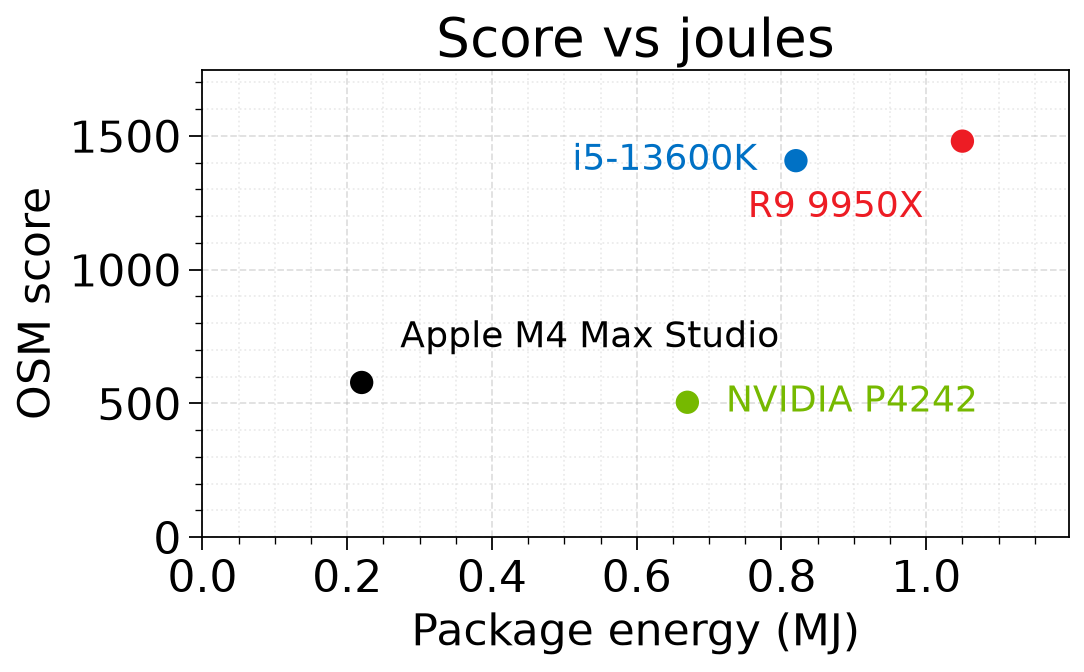
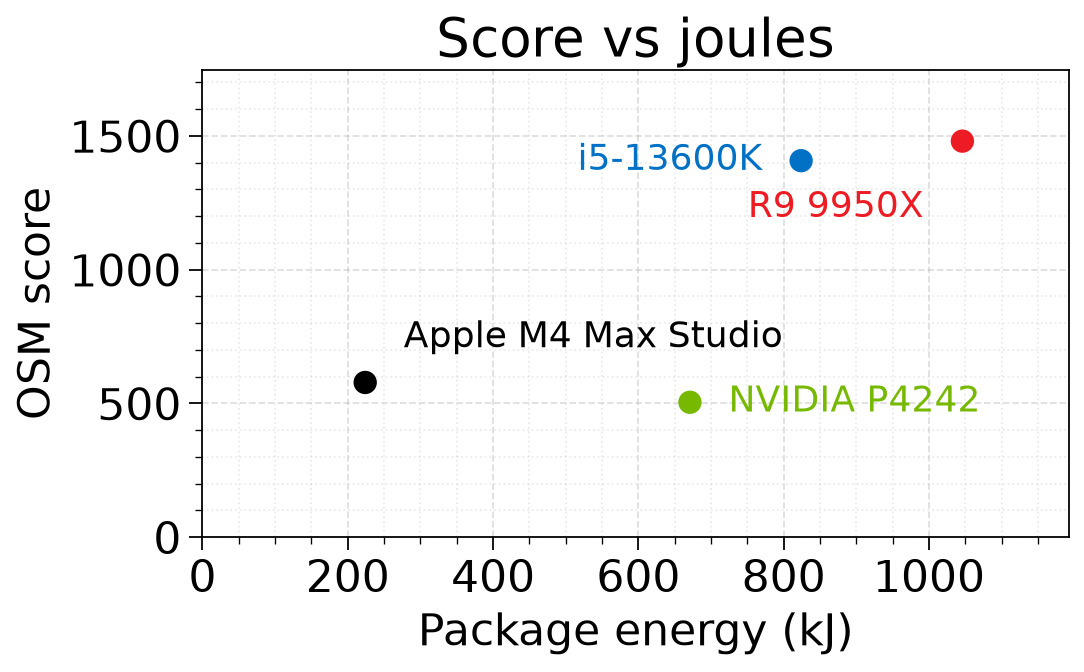
Show package energy in kJ and add a relations-versus-joules scatter.
Kilojoules put score and energy on a similar numeric scale. The PG19 relation section reuses full-run kJ against rel/s as a zoom-in, not a phase-isolated integral.

diff --git a/reports/osm-relation-power.py b/reports/osm-relation-power.py
@@ -5,6 +5,7 @@ Graph OSM relation power efficiency from a release's osm-power snapshot (default
 Generates:
   - Horizontal bar chart of relations per average watt
   - Scatter plot of relation count vs average watts
+  - Scatter of relations/second vs full-run package energy (kJ), when `kj` is on the snapshot table
 
 Usage:
   python3 reports/osm-relation-power.py
@@ -20,7 +21,7 @@ from pathlib import Path
 
 import matplotlib.pyplot as plt
 import pandas as pd
-from matplotlib.ticker import ScalarFormatter
+from matplotlib.ticker import AutoMinorLocator, ScalarFormatter
 
 sys.path.insert(0, str(Path(__file__).resolve().parent))
 from snapshot_table import load_snapshot_table
@@ -54,6 +55,14 @@ PG19_RELATION_SCATTER_LABEL_OVERRIDES: dict[str, LabelOffset] = {
     "R9 9950X": LabelOffset(-_marker_x_gap(), 0, ha="right", va="center"),
 }
 
+# Same four points as the leaderboard score-vs-kJ chart; i5 and 9950X share the top.
+RELATION_JOULES_LABEL_OVERRIDES: dict[str, LabelOffset] = {
+    "i5-13600K": LabelOffset(-_marker_x_gap(), 0, ha="right", va="center"),
+    "R9 9950X": LabelOffset(-_marker_x_gap(), -22, ha="right", va="top"),
+    "Apple M4 Max Studio": LabelOffset(_marker_x_gap(), 12, ha="left", va="bottom"),
+    "NVIDIA P4242": LabelOffset(_marker_x_gap(), 0, ha="left", va="center"),
+}
+
 
 def row_color(row: pd.Series) -> str:
     return str(row.get("cpu_c", "")).strip() or DEFAULT_POINT_COLOR
@@ -65,11 +74,13 @@ def parse_args() -> argparse.Namespace:
     parser.add_argument("--snapshot", type=Path)
     parser.add_argument("--output", type=Path)
     parser.add_argument("--scatter-output", type=Path)
+    parser.add_argument("--joules-output", type=Path)
     parser.add_argument("--show", action="store_true", help="Display interactively")
     args = parser.parse_args()
     args.snapshot = args.snapshot or snapshot_path(args.pg, "osm-power")
     args.output = args.output or image_path(args.pg, "osm-relation-power")
     args.scatter_output = args.scatter_output or image_path(args.pg, "osm-relation-scatter")
+    args.joules_output = args.joules_output or image_path(args.pg, "osm-relation-joules")
     return args
 
 
@@ -79,7 +90,7 @@ def numeric(series: pd.Series) -> pd.Series:
 
 def prepare_relation_df(rows: list[dict[str, str]]) -> pd.DataFrame:
     df = pd.DataFrame(rows)
-    for col in ("rel", "avg_watts", "rel_per_watt"):
+    for col in ("rel", "avg_watts", "rel_per_watt", "kj"):
         if col in df.columns:
             df[col] = numeric(df[col])
     return df.dropna(subset=["cpu", "rel", "avg_watts", "rel_per_watt"]).reset_index(drop=True)
@@ -117,15 +128,17 @@ def _bar_value_label(row: pd.Series) -> str:
     return f"{int(row['rel']):,} rel · {int(row['avg_watts'])} W avg"
 
 
-def relation_titles(pg: str) -> tuple[str, str]:
+def relation_titles(pg: str) -> tuple[str, str, str]:
     if pg == "18":
         return (
             "PostgreSQL 16-17 OSM load: relation phase efficiency",
             "PostgreSQL 16-18 OSM load: relation throughput vs average power",
+            "PostgreSQL 16-18 OSM load: relations/second vs package energy",
         )
     return (
         f"PostgreSQL {pg} OSM load: relation phase efficiency",
         f"PostgreSQL {pg} OSM load: relation throughput vs average power",
+        f"PostgreSQL {pg} OSM load: relations/second vs package energy",
     )
 
 
@@ -256,6 +269,50 @@ def plot_relation_scatter(
     plt.close(fig)
 
 
+def plot_relation_vs_joules(
+    df: pd.DataFrame, output: Path, title: str, show: bool = False
+) -> None:
+    """Relations/second vs full-run package energy. Some of those joules are
+    non-relation work; this is a zoom-in, not a phase-isolated integral."""
+    pts = df.dropna(subset=["kj", "rel"]).copy()
+    if pts.empty:
+        print(f"Skipping {output}: no kj column")
+        return
+    fig, ax = plt.subplots(figsize=(7.2, 4.6))
+    colors = [row_color(row) for _, row in pts.iterrows()]
+    ax.scatter(pts["kj"], pts["rel"], s=SCATTER_MARKER_SIZE, c=colors, zorder=3)
+    xmax = float(pts["kj"].max())
+    ymax = float(pts["rel"].max())
+    ax.set_xlim(0, xmax * 1.14)
+    ax.set_ylim(0, ymax * 1.18)
+    ax.set_xlabel("Package energy (kJ)")
+    ax.set_ylabel("Relations/second")
+    ax.set_title(title)
+    ax.xaxis.set_minor_locator(AutoMinorLocator())
+    ax.yaxis.set_minor_locator(AutoMinorLocator())
+    ax.tick_params(which="major", length=6)
+    ax.tick_params(which="minor", length=3)
+    ax.grid(True, which="major", linestyle="--", alpha=0.4)
+    ax.grid(True, which="minor", linestyle=":", alpha=0.25)
+    plain_axis(ax, y=True)
+    fig.tight_layout()
+    place_point_labels(
+        ax,
+        pts["cpu"].astype(str),
+        pts["kj"],
+        pts["rel"],
+        colors,
+        16,
+        overrides=RELATION_JOULES_LABEL_OVERRIDES,
+    )
+    output.parent.mkdir(parents=True, exist_ok=True)
+    fig.savefig(output, dpi=160, bbox_inches="tight")
+    print(f"Wrote {output} ({len(pts)} systems)")
+    if show:
+        plt.show()
+    plt.close(fig)
+
+
 def main() -> int:
     use_pg18_style()
     args = parse_args()
@@ -265,9 +322,11 @@ def main() -> int:
     df = prepare_relation_df(rows)
     if df.empty:
         raise SystemExit("Relation table has no plottable rows")
-    bar_title, scatter_title = relation_titles(args.pg)
+    bar_title, scatter_title, joules_title = relation_titles(args.pg)
     plot_relation_efficiency(df, args.output, bar_title, show=args.show)
     plot_relation_scatter(df, args.scatter_output, scatter_title, args.pg, show=args.show)
+    if "kj" in df.columns and df["kj"].notna().any():
+        plot_relation_vs_joules(df, args.joules_output, joules_title, show=args.show)
     return 0
 
 

diff --git a/reports/osm-leaderboard.py b/reports/osm-leaderboard.py
@@ -97,7 +97,7 @@ def config_label(row: pd.Series) -> str:
 
 def prepare_leaderboard_df(rows: list[dict[str, str]]) -> pd.DataFrame:
     df = pd.DataFrame(rows)
-    for col in ("mem_gb", "overall_kips", "score_kips", "index_kips", "ver", "hours", "max_wal_gb", "mj"):
+    for col in ("mem_gb", "overall_kips", "score_kips", "index_kips", "ver", "hours", "max_wal_gb", "kj"):
         if col in df.columns:
             df[col] = numeric(df[col])
     df["disk"] = df["disk"].str.strip()
@@ -153,18 +153,18 @@ def cpu_color(cpu: str) -> str:
 
 
 def plot_score_vs_joules(df: pd.DataFrame, output: Path, show: bool = False) -> None:
-    """Tiny speed-vs-energy scatter: one point per machine, score against MJ."""
-    pts = df.dropna(subset=["mj", "score_kips"]).copy()
+    """Tiny speed-vs-energy scatter: one point per machine, score against kJ."""
+    pts = df.dropna(subset=["kj", "score_kips"]).copy()
     if pts.empty:
         raise SystemExit("No package_joules on leaderboard rows")
     fig, ax = plt.subplots(figsize=(7.2, 4.6))
     colors = [cpu_color(c) for c in pts["cpu"]]
-    ax.scatter(pts["mj"], pts["score_kips"], s=SCATTER_MARKER_SIZE, c=colors, zorder=3)
-    xmax = float(pts["mj"].max())
+    ax.scatter(pts["kj"], pts["score_kips"], s=SCATTER_MARKER_SIZE, c=colors, zorder=3)
+    xmax = float(pts["kj"].max())
     ymax = float(pts["score_kips"].max())
     ax.set_xlim(0, xmax * 1.14)
     ax.set_ylim(0, ymax * 1.18)
-    ax.set_xlabel("Package energy (MJ)")
+    ax.set_xlabel("Package energy (kJ)")
     ax.set_ylabel("OSM score")
     ax.set_title("Score vs joules")
     ax.xaxis.set_minor_locator(AutoMinorLocator())
@@ -178,7 +178,7 @@ def plot_score_vs_joules(df: pd.DataFrame, output: Path, show: bool = False) -> 
     place_point_labels(
         ax,
         pts["cpu"].astype(str),
-        pts["mj"],
+        pts["kj"],
         pts["score_kips"],
         colors,
         16,
@@ -194,7 +194,7 @@ def plot_score_vs_joules(df: pd.DataFrame, output: Path, show: bool = False) -> 
 
 def joules_takeaway(df: pd.DataFrame) -> str:
     """Fastest x86 vs cheapest ARM on the one-point-per-machine board."""
-    pts = df.dropna(subset=["mj", "score_kips"]).copy()
+    pts = df.dropna(subset=["kj", "score_kips"]).copy()
     if pts.empty:
         return ""
     cpu = pts["cpu"].astype(str)
@@ -204,16 +204,16 @@ def joules_takeaway(df: pd.DataFrame) -> str:
     if x86.empty or apple.empty:
         return ""
     fast = x86.sort_values("score_kips", ascending=False).iloc[0]
-    arm = apple.sort_values("mj", ascending=True).iloc[0]
+    arm = apple.sort_values("kj", ascending=True).iloc[0]
     score_x = float(fast["score_kips"]) / float(arm["score_kips"])
-    joule_x = float(fast["mj"]) / float(arm["mj"])
+    joule_x = float(fast["kj"]) / float(arm["kj"])
     bits = [
         "You can potentially triple the score running on the fastest x86 instead of ARM, "
         "but it costs 4–5× as much energy to juice up the processors to do it. "
         f"**{fast['cpu']}** scores **{format_markdown_cell(fast['score_kips'])}** at "
-        f"**{format_markdown_cell(fast['mj'])} MJ**; **{arm['cpu']}** scores "
+        f"**{format_markdown_cell(fast['kj'])} kJ**; **{arm['cpu']}** scores "
         f"**{format_markdown_cell(arm['score_kips'])}** at "
-        f"**{format_markdown_cell(arm['mj'])} MJ** "
+        f"**{format_markdown_cell(arm['kj'])} kJ** "
         f"(**{score_x:.1f}×** score, **{joule_x:.1f}×** joules)."
     ]
     if not nvidia.empty:
@@ -231,7 +231,7 @@ def joules_markdown(df: pd.DataFrame) -> str:
     takeaway = joules_takeaway(df)
     body = (
         "Speed vs energy for the best run on each machine. **Score** is OSM kNodes/s; "
-        "**MJ** is total package energy (joules, shown as megajoules) from the 1-second "
+        "**kJ** is total package energy (joules, shown as kilojoules) from the 1-second "
         "power integral over the test window."
     )
     if takeaway:
@@ -537,7 +537,7 @@ def main() -> int:
     df = prepare_leaderboard_df(rows)
     plot_leaderboard(df, args.output, show=args.show)
     joules_md = None
-    if args.from_db and "mj" in df.columns and df["mj"].notna().any():
+    if args.from_db and "kj" in df.columns and df["kj"].notna().any():
         plot_score_vs_joules(df, JOULES_IMAGE, show=args.show)
         joules_md = joules_markdown(df)
     if args.from_db and table is not None and not args.no_page:

diff --git a/docs/leaderboards.md b/docs/leaderboards.md
@@ -37,9 +37,9 @@ The chart still keeps one bar pair per machine (best **score** on that box). **R
 
 <!-- osm-leaderboard-joules:begin -->
 
-Speed vs energy for the best run on each machine. **Score** is OSM kNodes/s; **MJ** is total package energy (joules, shown as megajoules) from the 1-second power integral over the test window.
+Speed vs energy for the best run on each machine. **Score** is OSM kNodes/s; **kJ** is total package energy (joules, shown as kilojoules) from the 1-second power integral over the test window.
 
-You can potentially triple the score running on the fastest x86 instead of ARM, but it costs 4–5× as much energy to juice up the processors to do it. **R9 9950X** scores **1480** at **1.05 MJ**; **Apple M4 Max Studio** scores **578** at **0.22 MJ** (**2.6×** score, **4.8×** joules). Versus NVIDIA Grace the score ratio is **2.9×** (1480 vs 504).
+You can potentially triple the score running on the fastest x86 instead of ARM, but it costs 4–5× as much energy to juice up the processors to do it. **R9 9950X** scores **1480** at **1046 kJ**; **Apple M4 Max Studio** scores **578** at **224 kJ** (**2.6×** score, **4.7×** joules). Versus NVIDIA Grace the score ratio is **2.9×** (1480 vs 504).
 
 ![OSM score vs package energy]({{ '/images/osm-leaderboard-joules.png' | relative_url }})
 
@@ -49,19 +49,19 @@ You can potentially triple the score running on the fastest x86 instead of ARM, 
 
 _Query returned 11 rows._
 
-| cpu | mem_gb | disk | ver | fsync | wal_level | max_wal_gb | conn | hours | score_kips | overall_kips | index_kips | rel_ps | avg_write | max_write | avg_read | max_read | pwr_est | avg_pkg | max_pkg | mj | score_per_watt | overall_per_watt | index_per_watt | wal |
+| cpu | mem_gb | disk | ver | fsync | wal_level | max_wal_gb | conn | hours | score_kips | overall_kips | index_kips | rel_ps | avg_write | max_write | avg_read | max_read | pwr_est | avg_pkg | max_pkg | kj | score_per_watt | overall_per_watt | index_per_watt | wal |
 | --- | --- | --- | --- | --- | --- | --- | --- | --- | --- | --- | --- | --- | --- | --- | --- | --- | --- | --- | --- | --- | --- | --- | --- | --- |
-| R9 9950X | 124 | SK51 2TB | 19 | off | minimal | 100 | host | 4.17 | 1480 | 719 | 364 | 4529 | 79 | 7772 | 68 | 9748 |  | 70 | 180 | 1.05 | 8.2 | 4 | 2 | 20.4 |
-| i5-13600K | 188 | Fury G5 4TB | 19 | off | minimal | 100 | host | 4.78 | 1407 | 628 | 410 | 4590 | 51 | 9692 | 42 | 9342 |  | 48 | 146 | 0.82 | 9.6 | 4.3 | 2.8 | 17.8 |
-| i5-13600K | 188 | Fury G5 4TB | 18 | off | minimal | 256 | host | 4.8 | 1310 | 625 | 319 | 4364 | 52 | 9742 | 43 | 7627 |  | 50 | 151 | 0.86 | 8.7 | 4.1 | 2.1 | 17.6 |
-| R9 9950X | 124 | SK51 2TB | 19 | on | replica | 100 | host | 4.34 | 1203 | 690 | 282 | 4516 | 106 | 6099 | 67 | 9666 |  | 70 | 183 | 1.1 | 6.6 | 3.8 | 1.5 | 97.1 |
-| R9 9950X | 124 | SK51 2TB | 18 | on | replica | 100 | host | 4.45 | 1149 | 673 | 269 | 4425 | 108 | 5108 | 66 | 9429 |  | 70 | 181 | 1.13 | 6.4 | 3.7 | 1.5 | 102 |
-| i5-13600K | 188 | Fury G5 4TB | 19 | on | replica | 100 | host | 5.03 | 1099 | 596 | 313 | 4468 | 67 | 9151 | 40 | 9110 |  | 48 | 150 | 0.87 | 7.3 | 4 | 2.1 | 83.4 |
-| R9 9950X | 124 | SK51 2TB | 18 | on | replica | 256 | host | 4.54 | 1088 | 661 | 300 | 4398 | 103 | 6283 | 67 | 9457 |  | 70 | 174 | 1.14 | 6.2 | 3.8 | 1.7 | 93.2 |
-| Apple M4 Max Studio | 128 | Apple AP2048 | 17 | off | minimal | 256 | host | 7.75 | 578 | 387 | 250 | 1358 | 331 | 4159 | 331 | 4159 |  | 8 | 37 | 0.22 | 15.5 | 10.4 | 6.7 | 10.7 |
-| Apple M4 Max Studio | 128 | Apple AP2048 | 18 | off | minimal | 100 | host | 7.49 | 561 | 400 | 171 | 1674 | 325 | 6125 | 325 | 6125 |  | 9 | 35 | 0.28 | 16.1 | 11.5 | 4.9 | 11.3 |
-| NVIDIA P4242 | 119 | Samsung MZAL | 16 | off | minimal | 256 | host | 7.75 | 504 | 387 | 197 | 1156 | 130 | 6115 | 111 | 6216 |  | 24 | 63 | 0.67 | 8 | 6.1 | 3.1 | 10.7 |
-| Apple M4 Max Studio | 128 | Apple AP2048 | 18 | on | replica | 100 | host | 11.1 | 265 | 270 | 69 | 1396 | 285 | 4578 | 285 | 4578 |  | 7 | 25 | 0.27 | 10.8 | 11 | 2.8 | 41.6 |
+| R9 9950X | 124 | SK51 2TB | 19 | off | minimal | 100 | host | 4.17 | 1480 | 719 | 364 | 4529 | 79 | 7772 | 68 | 9748 |  | 70 | 180 | 1046 | 8.2 | 4 | 2 | 20.4 |
+| i5-13600K | 188 | Fury G5 4TB | 19 | off | minimal | 100 | host | 4.78 | 1407 | 628 | 410 | 4590 | 51 | 9692 | 42 | 9342 |  | 48 | 146 | 824 | 9.6 | 4.3 | 2.8 | 17.8 |
+| i5-13600K | 188 | Fury G5 4TB | 18 | off | minimal | 256 | host | 4.8 | 1310 | 625 | 319 | 4364 | 52 | 9742 | 43 | 7627 |  | 50 | 151 | 859 | 8.7 | 4.1 | 2.1 | 17.6 |
+| R9 9950X | 124 | SK51 2TB | 19 | on | replica | 100 | host | 4.34 | 1203 | 690 | 282 | 4516 | 106 | 6099 | 67 | 9666 |  | 70 | 183 | 1100 | 6.6 | 3.8 | 1.5 | 97.1 |
+| R9 9950X | 124 | SK51 2TB | 18 | on | replica | 100 | host | 4.45 | 1149 | 673 | 269 | 4425 | 108 | 5108 | 66 | 9429 |  | 70 | 181 | 1130 | 6.4 | 3.7 | 1.5 | 102 |
+| i5-13600K | 188 | Fury G5 4TB | 19 | on | replica | 100 | host | 5.03 | 1099 | 596 | 313 | 4468 | 67 | 9151 | 40 | 9110 |  | 48 | 150 | 866 | 7.3 | 4 | 2.1 | 83.4 |
+| R9 9950X | 124 | SK51 2TB | 18 | on | replica | 256 | host | 4.54 | 1088 | 661 | 300 | 4398 | 103 | 6283 | 67 | 9457 |  | 70 | 174 | 1142 | 6.2 | 3.8 | 1.7 | 93.2 |
+| Apple M4 Max Studio | 128 | Apple AP2048 | 17 | off | minimal | 256 | host | 7.75 | 578 | 387 | 250 | 1358 | 331 | 4159 | 331 | 4159 |  | 8 | 37 | 224 | 15.5 | 10.4 | 6.7 | 10.7 |
+| Apple M4 Max Studio | 128 | Apple AP2048 | 18 | off | minimal | 100 | host | 7.49 | 561 | 400 | 171 | 1674 | 325 | 6125 | 325 | 6125 |  | 9 | 35 | 276 | 16.1 | 11.5 | 4.9 | 11.3 |
+| NVIDIA P4242 | 119 | Samsung MZAL | 16 | off | minimal | 256 | host | 7.75 | 504 | 387 | 197 | 1156 | 130 | 6115 | 111 | 6216 |  | 24 | 63 | 671 | 8 | 6.1 | 3.1 | 10.7 |
+| Apple M4 Max Studio | 128 | Apple AP2048 | 18 | on | replica | 100 | host | 11.1 | 265 | 270 | 69 | 1396 | 285 | 4578 | 285 | 4578 |  | 7 | 25 | 270 | 10.8 | 11 | 2.8 | 41.6 |
 
 <!-- osm-leaderboard-table:end -->
 

diff --git a/docs/results-summary/pg19/osm-power.md b/docs/results-summary/pg19/osm-power.md
@@ -28,12 +28,12 @@ Sets: siren 71 and twilight 118 (`PG19 beta4`); abbey 10 (`New Planet 2026-08-13
 
 _Query returned 4 rows._
 
-| cpu | mem_gb | ver | score_kips | overall_kips | index_kips | polygon_kips | line_kips | point_kips | node_kps | rel_ps | pwr_est | max_pkg | avg_pkg | fsync | wal_level | wal | avg_write | max_write | avg_read | max_read | cpu_c |
-| --- | --- | --- | --- | --- | --- | --- | --- | --- | --- | --- | --- | --- | --- | --- | --- | --- | --- | --- | --- | --- | --- |
-| R9 9950X | 124 | 19 | 1480 | 719 | 364 | 3925 | 8225 | 3731 | 20555 | 4529 |  | 180 | 70 | off | minimal | 20.4 | 79 | 7772 | 68 | 9748 | #ED1C24 |
-| i5-13600K | 188 | 19 | 1407 | 628 | 410 | 3551 | 7478 | 6707 | 14622 | 4590 |  | 146 | 48 | off | minimal | 17.8 | 51 | 9692 | 42 | 9342 | #0071C5 |
-| Apple M4 Max Studio | 128 | 17 | 578 | 387 | 250 | 2289 | 3400 | 6568 | 12725 | 1358 |  | 37 | 8 | off | minimal | 10.7 | 331 | 4159 | 331 | 4159 | #000000 |
-| NVIDIA P4242 | 119 | 16 | 504 | 387 | 197 | 1887 | 3578 | 3030 | 15071 | 1156 |  | 63 | 24 | off | minimal | 10.7 | 130 | 6115 | 111 | 6216 | #76B900 |
+| cpu | mem_gb | ver | score_kips | overall_kips | index_kips | polygon_kips | line_kips | point_kips | node_kps | rel_ps | pwr_est | max_pkg | avg_pkg | kj | fsync | wal_level | wal | avg_write | max_write | avg_read | max_read | cpu_c |
+| --- | --- | --- | --- | --- | --- | --- | --- | --- | --- | --- | --- | --- | --- | --- | --- | --- | --- | --- | --- | --- | --- | --- |
+| R9 9950X | 124 | 19 | 1480 | 719 | 364 | 3925 | 8225 | 3731 | 20555 | 4529 |  | 180 | 70 | 1046 | off | minimal | 20.4 | 79 | 7772 | 68 | 9748 | #ED1C24 |
+| i5-13600K | 188 | 19 | 1407 | 628 | 410 | 3551 | 7478 | 6707 | 14622 | 4590 |  | 146 | 48 | 824 | off | minimal | 17.8 | 51 | 9692 | 42 | 9342 | #0071C5 |
+| Apple M4 Max Studio | 128 | 17 | 578 | 387 | 250 | 2289 | 3400 | 6568 | 12725 | 1358 |  | 37 | 8 | 224 | off | minimal | 10.7 | 331 | 4159 | 331 | 4159 | #000000 |
+| NVIDIA P4242 | 119 | 16 | 504 | 387 | 197 | 1887 | 3578 | 3030 | 15071 | 1156 |  | 63 | 24 | 671 | off | minimal | 10.7 | 130 | 6115 | 111 | 6216 | #76B900 |
 
 ## Relation power efficiency
 
@@ -47,11 +47,15 @@ Relation-build throughput during OSM planet load, normalized by **average** pack
 
 The scatter view shows the same data directly: desktop AMD and Intel sit at **48–70 W** average with the highest relation rates; Apple stays in the lower-left with the best **rel_per_watt**.
 
+![OSM relations/second vs full-run package energy]({{ '/images/pg19-osm-relation-joules.png' | relative_url }})
+
+Same **full-run package energy** as the leaderboard score-vs-kJ chart, against **relations/second** instead of OSM score. Some of those joules went to nodes, ways, and indexes—this is a zoom-in, not a phase-isolated integral. **i5-13600K** slightly leads relation rate (**4590** rel/s) at **824 kJ**; **R9 9950X** is **4529** rel/s at **1046 kJ**. Apple stays cheap (**224 kJ**, **1358** rel/s).
+
 Regenerate: `MPLBACKEND=Agg MPLCONFIGDIR="$PWD/.matplotlib-cache" .venv-graph/bin/python reports/osm-relation-power.py --pg 19` (reads the relation table below).
 
-| cpu | ver | rel | avg_watts | max_watts | rel_per_watt | cpu_c |
-| --- | --- | --- | --- | --- | --- | --- |
-| Apple M4 Max Studio | 17 | 1358 | 8 | 37 | 170 | #000000 |
-| i5-13600K | 19 | 4590 | 48 | 146 | 96 | #0071C5 |
-| R9 9950X | 19 | 4529 | 70 | 180 | 65 | #ED1C24 |
-| NVIDIA P4242 | 16 | 1156 | 24 | 63 | 48 | #76B900 |
+| cpu | ver | rel | avg_watts | max_watts | rel_per_watt | kj | cpu_c |
+| --- | --- | --- | --- | --- | --- | --- | --- |
+| Apple M4 Max Studio | 17 | 1358 | 8 | 37 | 170 | 224 | #000000 |
+| i5-13600K | 19 | 4590 | 48 | 146 | 96 | 824 | #0071C5 |
+| R9 9950X | 19 | 4529 | 70 | 180 | 65 | 1046 | #ED1C24 |
+| NVIDIA P4242 | 16 | 1156 | 24 | 63 | 48 | 671 | #76B900 |
